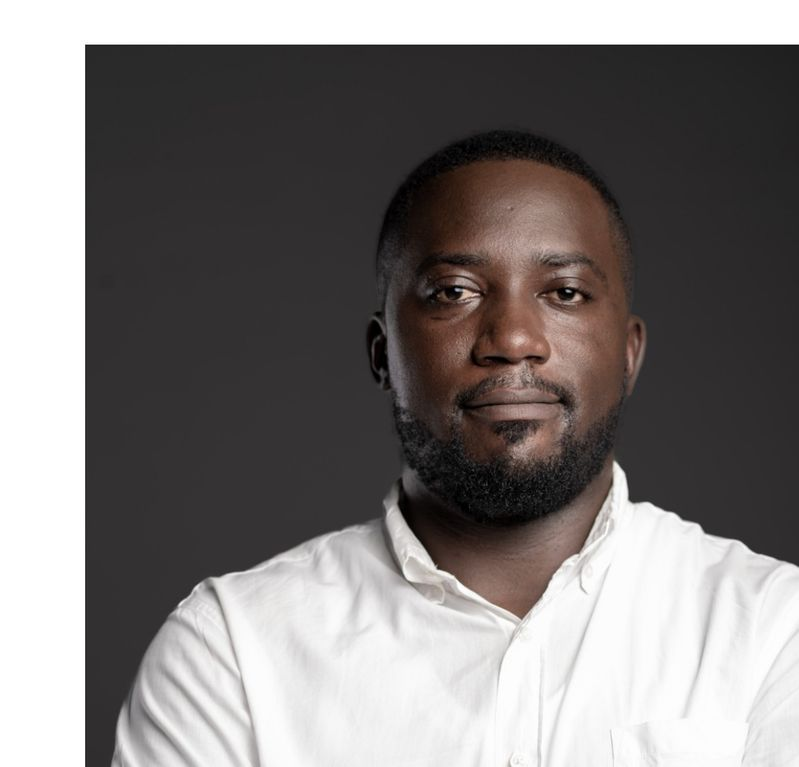
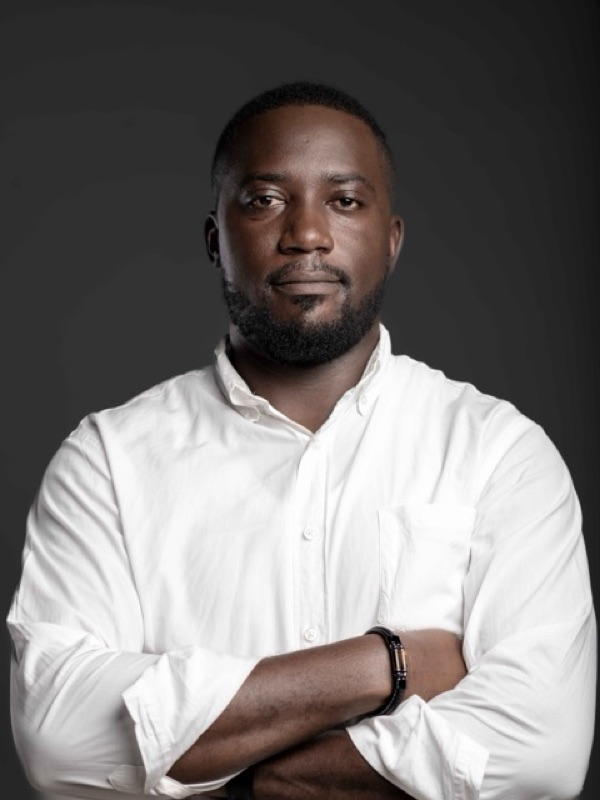
feat: Replace team photos with professional headshots, center-align grid
Replace all 5 team member photos with proper professional headshots.
Convert Benjamin's PNG (background-removed) to optimized JPG. All
photos resized to 800px max at quality 80. Switch team grid from CSS
Grid to flexbox with justify-center so the bottom row (2 of 5) is
centered instead of left-aligned.

diff --git a/src/app/about/page.tsx b/src/app/about/page.tsx
@@ -374,11 +374,11 @@ export default function AboutPage() {
               celebrations unforgettable.
             </p>
           </div>
-          <div className="grid grid-cols-1 sm:grid-cols-2 lg:grid-cols-3 gap-8 lg:gap-10 max-w-5xl mx-auto">
+          <div className="flex flex-wrap justify-center gap-8 lg:gap-10 max-w-5xl mx-auto">
             {teamMembers.map((member) => (
               <div
                 key={member.name}
-                className="group text-center rounded-2xl bg-white p-6 hover:shadow-lg transition-all duration-300"
+                className="group text-center rounded-2xl bg-white p-6 hover:shadow-lg transition-all duration-300 w-full sm:w-[calc(50%-1rem)] lg:w-[calc(33.333%-1.75rem)]"
               >
                 <div className="mx-auto mb-5 h-40 w-40 rounded-full overflow-hidden shadow-lg group-hover:scale-105 transition-transform duration-300 relative">
                   <Image
